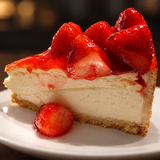
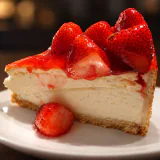
Serve lossy, correctly sized homepage photos
The homepage WebPs were lossless (7-11.5 bits per pixel), so the hero pair
alone was 2.5 MB. scripts/prepare-web-images.mjs, the canonical pipeline,
now encodes every homepage copy from its unchanged source as lossy WebP
(quality 82, sharp YUV, effort 6); `homepage` or `studio` limits a run.

- Hero: 640/960/1280/1536 px copies of both photos. The before photo no
  longer falls back to the 2592 px JPEG. `sizes` now follows the frame,
  including the 4:5 phone crop that draws the photos wider than the frame.
  Desktop pair: 2.4 MB -> 210 KB.
- Style gallery: lossy 160-1254 px copies of the lossless masters (kept as
  sources) and 320-1280 px copies of the original JPEG.
- Use-case cards: 320-800 px copies with srcset/sizes; the 960 px files
  remain the largest candidate.

tests/web-assets.mjs asserted lossless pixel equality; it now checks
dimensions, fidelity against a lanczos resize (PSNR >= 34 dB at display
sizes, 31 dB for thumbnails), smaller-than-source and weight budgets.

Claude-Session: https://claude.ai/code/session_01W9sEZ3i1TGrA8Z6btLpB7b

diff --git a/app/components/homepage-sections.tsx b/app/components/homepage-sections.tsx
@@ -10,11 +10,24 @@ import {
 } from "@/components/ui/carousel";
 import HomepageStyleGallery from "./homepage-style-gallery";
 
+// Smaller copies come from scripts/prepare-web-images.mjs; the original file
+// is the largest candidate (for 3x phones).
+const responsive = (name: string, widths: number[], full: number) =>
+  [
+    ...widths.map((w) => `/homepage/optimized/${name}-${w}.webp ${w}w`),
+    `/homepage/${name}.webp ${full}w`,
+  ].join(", ");
+// Card previews are at most 300px wide; below ~450px they follow the carousel
+// slide (84% of the page minus gutters and the stage padding).
+const deliverySizes = "(max-width: 448px) calc(84vw - 77px), 300px";
+const menuSizes = "(max-width: 448px) calc(84vw - 109px), 268px";
+
 const useCases = [
   {
     kind: "delivery",
     name: "Delivery apps",
     image: "/homepage/restaurants.webp",
+    srcSet: responsive("restaurants", [320, 480, 640, 800], 960),
     alt: "Sliced steak with herb butter and golden fries on a ceramic plate",
     text: "Put your best photo on the listing. Download images ready for your delivery menu.",
   },
@@ -29,6 +42,7 @@ const useCases = [
     kind: "menu",
     name: "Your existing menu",
     image: "/homepage/menus.webp",
+    srcSet: responsive("menus", [320, 480, 640, 800], 960),
     alt: "Tomato rigatoni with basil and Parmesan on a ceramic plate",
     text: "Bring your dishes to life on Toast, your website, or the menu platform you already use.",
   },
@@ -47,6 +61,8 @@ function OutputExample({ item }: { item: (typeof useCases)[number] }) {
             <div className="pw-delivery-photo">
               <img
                 src={item.image}
+                srcSet={item.srcSet}
+                sizes={deliverySizes}
                 alt=""
                 width="960"
                 height="640"
@@ -94,6 +110,8 @@ function OutputExample({ item }: { item: (typeof useCases)[number] }) {
           <img
             className="pw-output-post"
             src="/homepage/social-post-example.webp"
+            srcSet={responsive("social-post-example", [320, 480], 640)}
+            sizes="244px"
             alt="Example Instagram post for Your restaurant: Today’s special, Fish tacos, with crispy fish, fresh slaw and lime on a blue backdrop."
             width="640"
             height="800"
@@ -117,6 +135,8 @@ function OutputExample({ item }: { item: (typeof useCases)[number] }) {
         </div>
         <img
           src={item.image}
+          srcSet={item.srcSet}
+          sizes={menuSizes}
           alt={item.alt}
           width="960"
           height="640"

diff --git a/app/components/photo-comparison.tsx b/app/components/photo-comparison.tsx
@@ -2,7 +2,17 @@
 import { useEffect, useRef } from "react";
 import { ChevronsLeftRight } from "lucide-react";
 
-const sizes = "(max-width: 760px) 100vw, 1080px";
+// Lossy WebP variants from scripts/prepare-web-images.mjs.
+const variants = (name: string) =>
+  [640, 960, 1280, 1536]
+    .map((w) => `/homepage/optimized/${name}-${w}.webp ${w}w`)
+    .join(", ");
+// The frame is 16:10 and at most 1080px wide (22px page gutters). On phones it
+// turns 4:5, so object-fit: cover draws each photo wider than the frame: the
+// 3:2 result at 1.875× and the 4:3 phone photo at 1.667× the frame width.
+const frameWidth = "(max-width: 1124px) calc(100vw - 44px), 1080px";
+const afterSizes = `(max-width: 760px) calc(187.5vw - 83px), ${frameWidth}`;
+const beforeSizes = `(max-width: 760px) calc(166.7vw - 73px), ${frameWidth}`;
 
 export default function PhotoComparison() {
   const frame = useRef<HTMLDivElement>(null);
@@ -75,8 +85,8 @@ export default function PhotoComparison() {
       >
         <img
           src="/homepage/optimized/burger-after-960.webp"
-          srcSet="/homepage/optimized/burger-after-640.webp 640w, /homepage/optimized/burger-after-960.webp 960w, /homepage/optimized/burger-after-1536.webp 1536w"
-          sizes={sizes}
+          srcSet={variants("burger-after")}
+          sizes={afterSizes}
           alt="Illustrative AI edit of the burger with studio lighting and a clean background"
           decoding="async"
           fetchPriority="high"
@@ -84,9 +94,9 @@ export default function PhotoComparison() {
         />
         <img
           className="pw-compare-before"
-          src="/homepage/optimized/burger-before-640.webp"
-          srcSet="/homepage/optimized/burger-before-640.webp 640w, /burger-phone-original.jpg 2592w"
-          sizes={sizes}
+          src="/homepage/optimized/burger-before-960.webp"
+          srcSet={variants("burger-before")}
+          sizes={beforeSizes}
           alt="Original phone photo of a burger on a white plate"
           decoding="async"
           fetchPriority="high"
